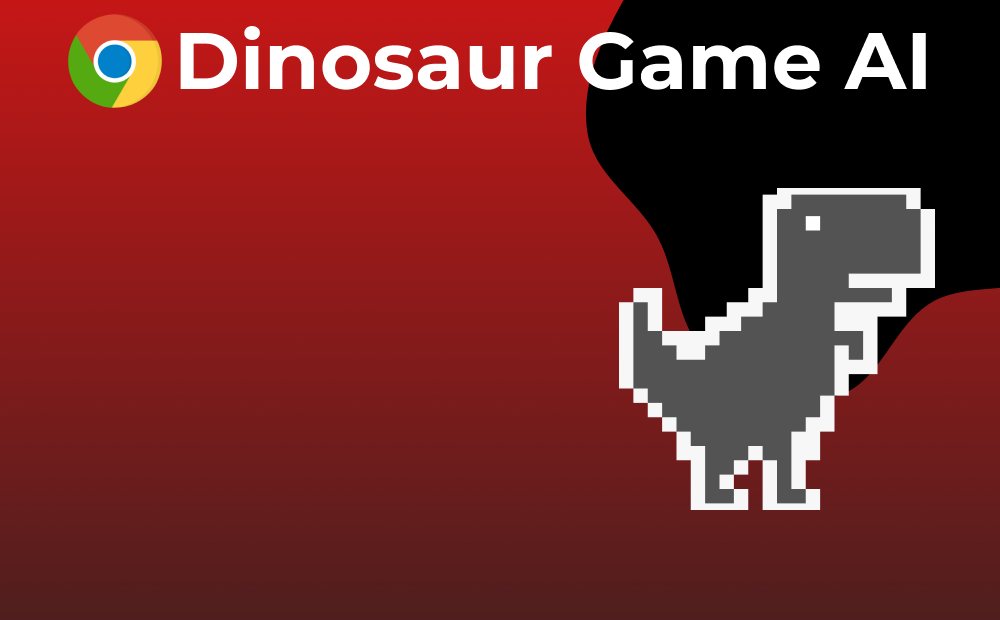
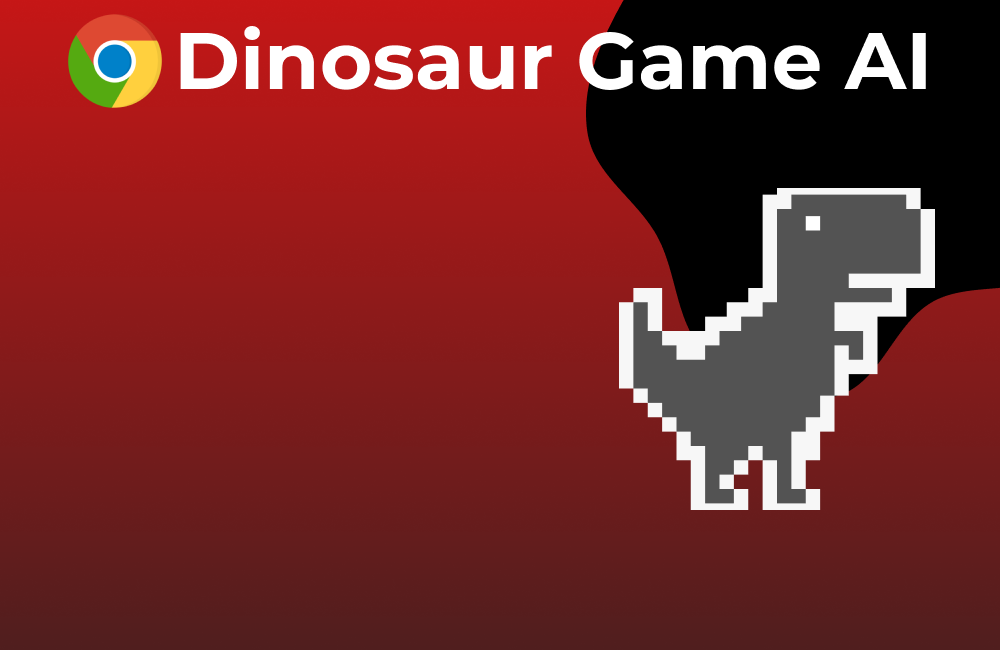
Updated the window size of the mainmenu.py

diff --git a/mainmenu.py b/mainmenu.py
@@ -9,7 +9,7 @@ import LoadingDinoModel as TestAI
 pygame.init()
 
 # Global Constanst
-SCREEN_HEIGHT = 620  # Screen Height of the game window
+SCREEN_HEIGHT = 650  # Screen Height of the game window
 SCREEN_WIDTH = 1000  # Screen Width of the game window
 # pygame.NOFRAME removes the task bar from the game window
 SCREEN = pygame.display.set_mode((SCREEN_WIDTH, SCREEN_HEIGHT), pygame.NOFRAME)
